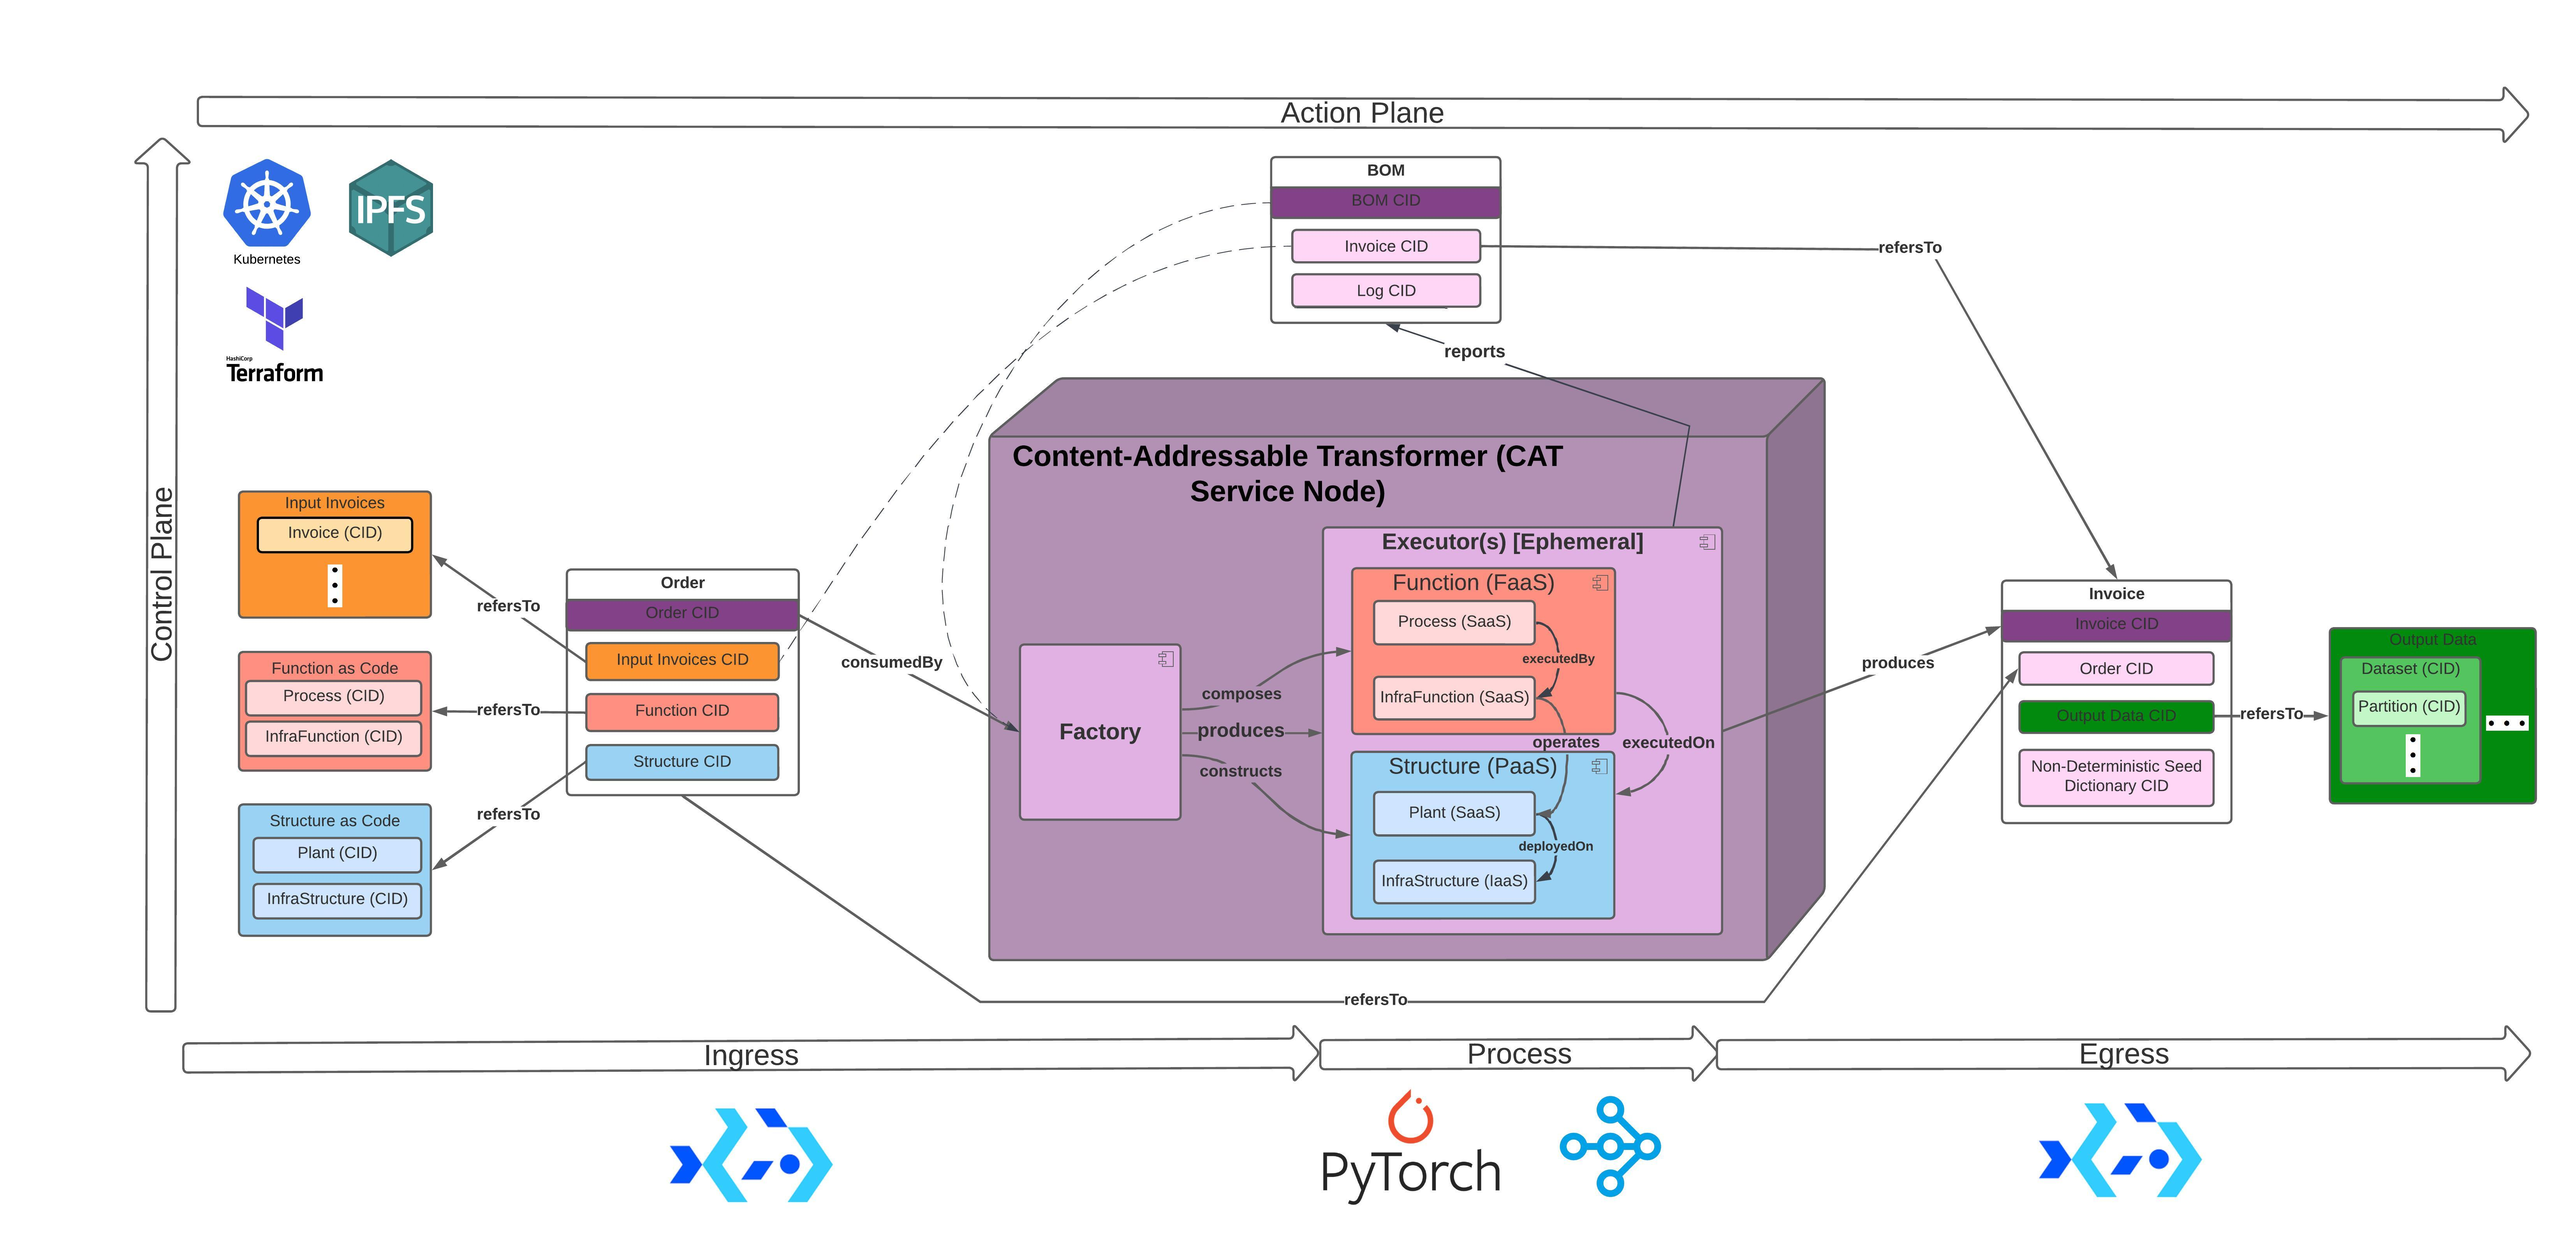
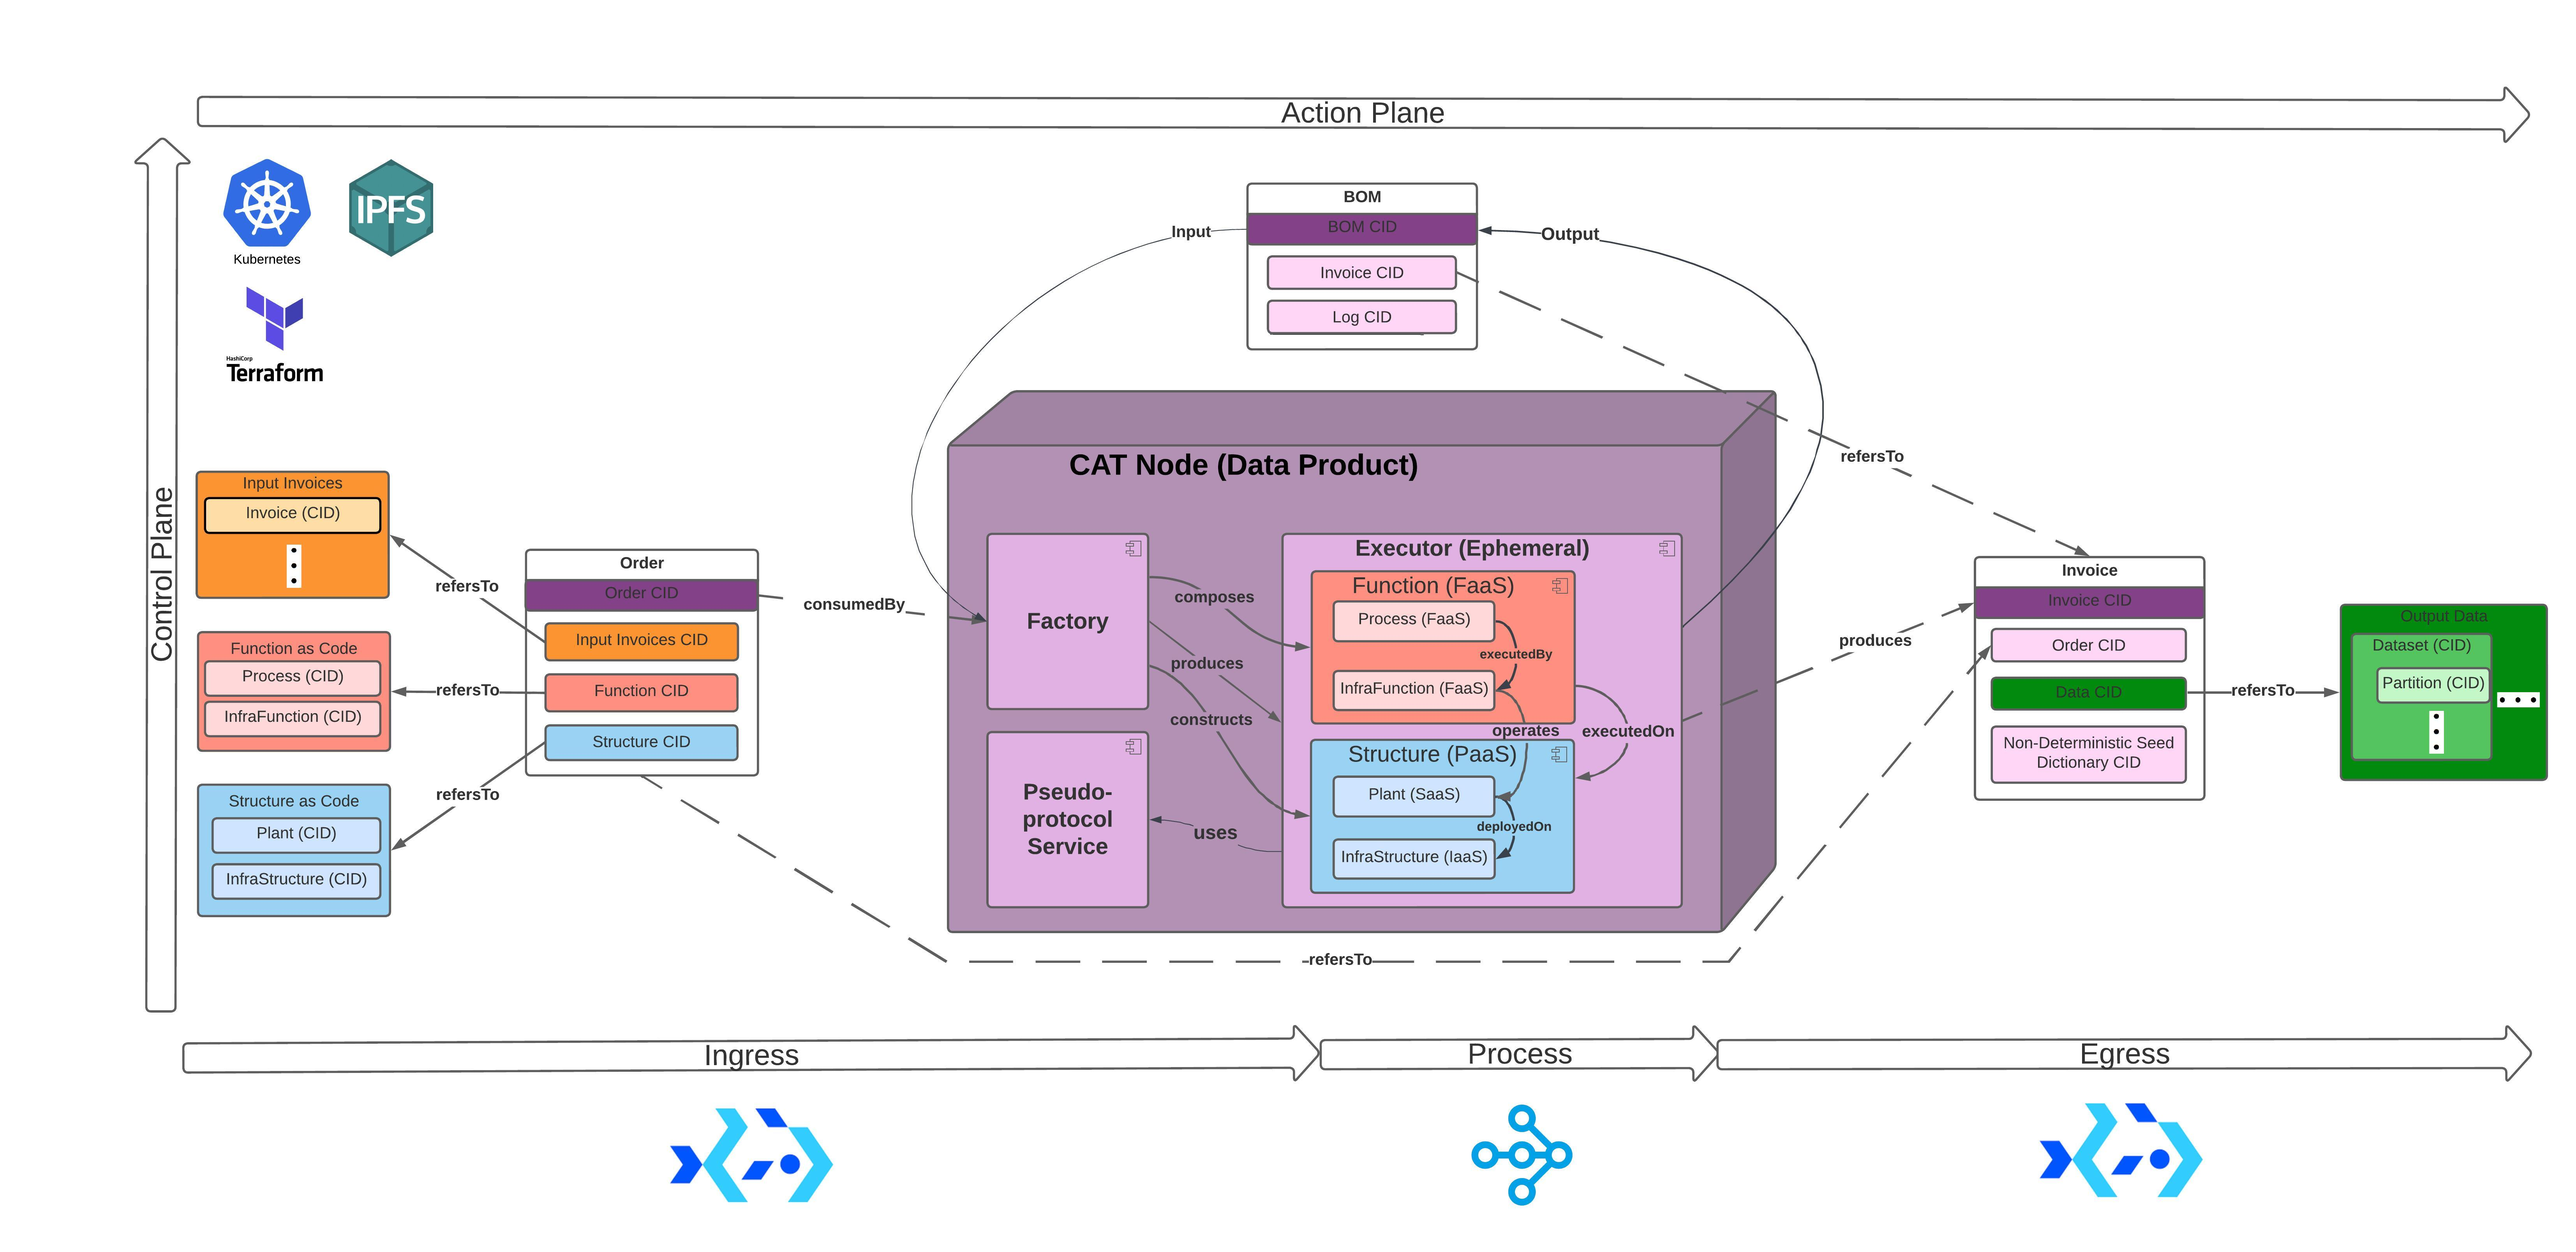
POC: update readme

diff --git a/cat/node.py b/cat/node.py
@@ -60,12 +60,8 @@ def execute_init_cat():
         order_request = request.get_json()
         order_request["order"] = json.loads(service.meshClient.cat(order_request["order_cid"]))
         order_request['invoice'] = json.loads(service.meshClient.cat(order_request['order']['invoice_cid']))
-        pprint(order_request["order"])
-        pprint(order_request['invoice']['data_cid'])
-
-
-
-        # bom['invoice']['data_cid'] = service.meshClient.linkData(bom['invoice']['data_cid'])
+        # pprint(order_request["order"])
+        # pprint(order_request['invoice']['data_cid'])
 
         # IPFS checks
         # if 'bom_cid' not in bom:
@@ -89,8 +85,8 @@ def execute_link_cat():
         order_request = request.get_json()
         order_request["order"] = json.loads(service.meshClient.cat(order_request["order_cid"]))
         order_request['invoice'] = json.loads(service.meshClient.cat(order_request['order']['invoice_cid']))
-        pprint(order_request["order"])
-        pprint(order_request['invoice']['data_cid'])
+        # pprint(order_request["order"])
+        # pprint(order_request['invoice']['data_cid'])
 
         prev_data_cid = order_request['invoice']['data_cid']
         data_cid = service.meshClient.linkData(prev_data_cid)

diff --git a/README.md b/README.md
@@ -1,27 +1,71 @@
 # CATs: Content-Addressable Transformers
-![alt_text](images/CATs_chaordic_kernel.jpeg?raw=true)
+![alt_text](images/CATs_chaordic_kernel.jpeg)
 
-### Description:
-CATs (Content-Addressable Transformers) is a unified Data Product collaboration framework written in Python that 
-establishes a scalable and self-serviced decentralized Data Mesh network of verifiable and scalable distributed 
-computing workloads with Data Provenance using interoperable distributed computing frameworks deployable on 
-**[Kubernetes](https://kubernetes.io/)** for Big Data processing with Scientific Computing capabilities. CATs enable 
-workloads to be portable between Web2 & Web3 infrastructure with minimal rework or modification. This portability closes 
-the gap between data analysis and business operations by connecting Web3 and Web2 network planes. CATs accomplishes this 
-by interfacing the Web2 cloud service model (SaaS, PaaS, IaaS) offered by providers such as AWS, GCP, Azure, etc. on a 
-Mesh Network interconnected by Web3 [**Content-Addresed**](https://en.wikipedia.org/wiki/Content-addressable_storage) 
-data transport solutions such as [IPFS](https://ipfs.io/). 
 
-CATs will utilize [Ray](https://www.ray.io/), a unified compute framework for interoperable distributed computing 
-frameworks for Big Data processing with Scientific Computing capabilities, with access to other 
-[Ray ecosystem integrations](https://docs.ray.io/en/latest/ray-overview/ray-libraries.html) such as 
-[Apache Spark](https://spark.apache.org/) & [Dask](https://www.dask.org/). Ray will be deployed as an execution 
-middleware layer on top of [Bacalhau’s Compute over Data (CoD)](https://www.bacalhau.org/). CoD will provide 
-parallelized compute access to IPFS data for CATs' data ingress and egress via IPFS. This enables IPFS to serve as CATs' 
-Data Mesh's peer-to-peer (p2p) network layer with CoD acting as CATs’ integration point between Web2 and Web3 workloads 
-by providing a p2p distributed-computing job submission option in addition the client-server option provided by Ray.
+**Content-Addressable Transformers** (**CATS**) is a unified data service collaboration framework that establishes a scalable and 
+self-serviced Data Platform as a Data Mesh network of scalable & distributed computing workloads with Data Provenance. 
+CATs uses interoperable distributed computing frameworks deployable on Kubernetes.
 
-### Installation:
+### Data Service collaboration via CATs:
+CAT Mesh streamline data service collaboration between organizations by providing a reliable and efficient way to manage, 
+share, and reference data and data processing by Content-Addressing the means of data transformation. **Content-Addressing** is a method of uniquely identifying and retrieving data based on its content rather than its location 
+or address. 
+
+##### Collaborative Value of CATs:
+* Organizations participating in Strategic Partnerships will employ CATs for rapid ratification of service agreements 
+within collaborative feedback loops of Data Initiatives
+* CATs will be compiled and executed as interconnecting services on a Data Mesh that grows naturally when organizations 
+communicate CATs provenance records (a.k.a BOMs (Bills of Materials)) within feedback loops of Data Initiatives
+
+![alt_text](images/CATs_bom_ag.jpeg)
+
+### CAT Mesh: ***CATs' self-serviced Data Mesh platform***
+
+CATs establishes a scalable and self-serviced Data Mesh platform (**CAT Mesh**) for Multi-disciplinary and 
+cross-fuctional teams to verify and scale distributed computing workloads with Data Provenance using interoperable 
+computing frameworks deployable on **[Kubernetes](https://kubernetes.io/)** for Big Data processing with Scientific 
+Computing capabilities.
+
+**Value:**
+
+CAT Mesh enables workloads to be portable between Web2 & Web3 infrastructure with minimal rework or modification. This portability closes 
+the gap between data analysis and business operations by connecting Web3 and Web2 network planes. 
+
+**Means: Content-Addressing**
+
+CAT Mesh workloads (or CATs) interface cloud service model (SaaS, PaaS, IaaS) offered by providers such as AWS, GCP, Azure, etc. on a 
+Mesh Network interconnected by [**Content-Addresed**](https://en.wikipedia.org/wiki/Content-addressable_storage) 
+data transport solutions such as [IPFS](https://ipfs.io/).
+* IPFS **[CIDs](https://docs.ipfs.io/concepts/content-addressing/)** (Content-Identifiers) are used as content addresses 
+that provide the means of verifying data transformation accuracy.
+* IPFS **[client](https://docs.ipfs.io/install/command-line/#official-distributions)** is used to identify and retrieve 
+inputs, transformations, outputs, and infrastructure (as code [IaC]) for verifying transformation accuracy given CIDs
+
+![alt_text](images/cid_example.jpeg)
+
+### CATs' Data Provenance Record: Bill of Materials
+**BOM (Bill of Materials):** 
+CATs Content-Addressed Data Provenance record for verifiable data processing and transport on 
+a Mesh network of CATs. BOMs are used as CAT’ input & output that contain CATs’ means of data processing
+
+![alt_text](images/CATs_bom_activity.jpeg)
+
+BOMs employ CIDs for location-agnostic retrieval based on its content as well as processes and 
+[Data Veification](https://en.wikipedia.org/wiki/Data_verification). BOM CIDs can be used to verify the means of processing 
+data (input, transformation / process, output, infrastructure-as-code (IaC)). they can also 
+make CATs resilient by enabling re-execution via retrieval. CATs certifies the accuracy of data processing on data 
+products and pipelines by enabling maintenance & reporting of 
+[data and process lineage & provenance](https://bi-insider.com/posts/data-lineage-and-data-provenance/) as chains of 
+evidence using CIDs.
+
+**Interconnect CATs:** ***Establish a CAT Mesh with Data Provenance***
+
+CAT Mesh is composed by CATs executing BOMs.
+
+![alt_text](images/CATs_bom_connect.jpeg)
+
+### Get Started!
+##### A. Installation:
 0. **[Python](https://www.python.org/downloads/)** (>= 3.10.13)
 1. **[kind](https://kind.sigs.k8s.io/docs/user/quick-start/#installing-from-release-binaries)** (>= 0.12.0)
 2. **[kubectl](https://kubernetes.io/docs/tasks/tools/install-kubectl-linux/)** (>= 1.22.2)
@@ -37,38 +81,15 @@ by providing a p2p distributed-computing job submission option in addition the c
     ```bash
     git clone ...
     ```
-
-
-
-### Get Started:
-* [**Prepare CAT Node's Execution Environment**](./docs/ENV.md)
-* **Deploy CAT Node**
+#####  B. [Prepare CAT Node's Execution Environment](./docs/ENV.md)
+#####  C. Deploy CAT Node:
   ```bash
   cd <CATs parent directory>/cats-research
   source ./venv/bin/activate
   # (venv) $
   PYTHONPATH=./ python catMesh/cat/node.py
   ```
-* [**Create CAT Mesh**](./cats_demo.ipynb)
-
-### Technical Value:
-CATs' will utilized IPFS [CIDs](https://docs.ipfs.tech/concepts/content-addressing/#content-identifiers-cids) for 
-Content-Addressing transformations / processes. CIDs will be issued to a process (CAT) and its means of processing to be 
-used for location-agnostic retrieval based on its content as well as processes and 
-[Data Veification](https://en.wikipedia.org/wiki/Data_verification). They can be used to verify the means of processing 
-data (input, transformation / process, output, infrastructure-as-code (IaC)) within CATs' provenance records. CIDs also 
-make CATs resilient by enabling re-execution via retrieval. CATs certifies the accuracy of data processing on data 
-products and pipelines by enabling maintenance & reporting of 
-[data and process lineage & provenance](https://bi-insider.com/posts/data-lineage-and-data-provenance/) as chains of 
-evidence using CIDs. Multi-disciplinary and cross-fuctional teams can use CATs' peers to scale and execute execution of 
-interoperable frameworks for Distributed, Concurrent and/or Parallelized execution 
-([0.](https://en.wikipedia.org/wiki/Distributed_computing))
-
-**Content-Addressing Data Processing with IPFS:**
-* IPFS **[CIDs](https://docs.ipfs.io/concepts/content-addressing/)** (Content-Identifiers) are used as content addresses 
-that provide the means of verifying data transformation accuracy.
-* IPFS **[client](https://docs.ipfs.io/install/command-line/#official-distributions)** is used to identify and retrieve 
-inputs, transformations, outputs, and infrastructure (as code [IaC]) for verifying transformation accuracy given CIDs
+#####  C. [Establish CAT Mesh](./cats_demo.ipynb)
 
 
 ### Orginizational Value:
